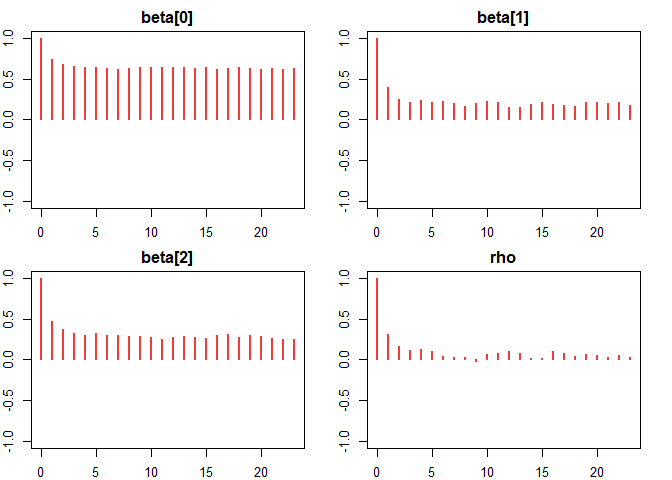
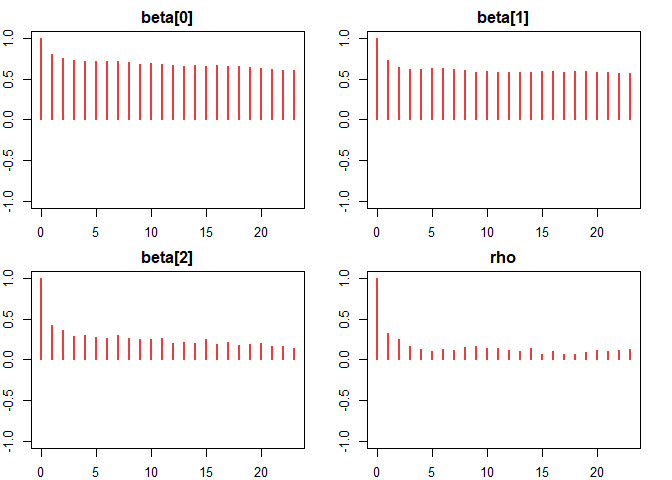
Update sample datasets and regenerate README

Changed region(s): [[0.5625, 0.125, 0.9375, 0.2188], [0.3125, 0.6875, 0.375, 0.7188], [0.6875, 0.7188, 0.7188, 0.75]]

diff --git a/README.md b/README.md
@@ -70,7 +70,8 @@ model_sarDeff <- betaDeffSAR(
   DEFF = "deff",
   n_i = "n_i",
   proxmat = weight_mat,
-  data = dataBeta
+  data = dataBeta,
+  n.adapt = 500
 )
 ```
 
@@ -80,13 +81,13 @@ Extract the mean estimation for the areas:
 
 ``` r
 head(model_sarDeff$Est)
-#>        Estimate  Est.Error  l-95% CI  u-95% CI
-#> mu[1] 0.9424437 0.02473051 0.8848259 0.9776762
-#> mu[2] 0.5457462 0.11659218 0.3149116 0.7315391
-#> mu[3] 0.5513215 0.14246659 0.3208994 0.7884987
-#> mu[4] 0.9781423 0.01099468 0.9540676 0.9927489
-#> mu[5] 0.8579155 0.06805634 0.6983677 0.9506254
-#> mu[6] 0.9604244 0.02002996 0.9180352 0.9882067
+#>        Estimate  Est.Error   l-95% CI  u-95% CI
+#> mu[1] 0.8784156 0.04693805 0.75802237 0.9425771
+#> mu[2] 0.6269277 0.10464048 0.42570608 0.8392672
+#> mu[3] 0.5816371 0.07945872 0.42829699 0.7439266
+#> mu[4] 0.2173992 0.06685184 0.10416101 0.3559373
+#> mu[5] 0.2133118 0.07370978 0.07678379 0.3639901
+#> mu[6] 0.9436485 0.03235324 0.87259401 0.9869702
 ```
 
 Extract the estimated model coefficients:
@@ -94,224 +95,96 @@ Extract the estimated model coefficients:
 ``` r
 model_sarDeff$coefficient
 #>          Estimate  Est.Error  l-95% CI  u-95% CI     Rhat       ESS
-#> beta[0] 1.4140162 0.06979523 1.2847386 1.5523158 1.023636  14.79175
-#> beta[1] 1.1132699 0.04927467 1.0175493 1.2073429 1.375047 159.10767
-#> beta[2] 1.0684749 0.05384520 0.9653036 1.1788241 1.180388 180.06271
-#> rho     0.6367206 0.11348094 0.3788074 0.8321463 1.031383 245.11652
+#> beta[0] 1.9369675 0.26837727 1.3527652 2.3800517 1.531591  12.28722
+#> beta[1] 0.7997211 0.15218007 0.5135726 1.0837170 1.026906  36.98647
+#> beta[2] 0.7181547 0.09340642 0.5334150 0.8996733 1.264257 128.53339
+#> rho     0.6856899 0.14729914 0.3389427 0.9094680 1.005473 186.02937
 ```
 
 Extract the random effect for the areas:
 
 ``` r
 model_sarDeff$randeff
-#>            Estimate Est.Error    l-95% CI     u-95% CI
-#> v[1]   -0.166947816 0.4409500 -0.98356463  0.702190526
-#> v[2]   -0.306449706 0.4869276 -1.24378738  0.578033881
-#> v[3]   -1.101543369 0.6076578 -2.10017851 -0.010568305
-#> v[4]    0.537926878 0.5457722 -0.40814890  1.470423405
-#> v[5]    0.810584902 0.5590027 -0.26931244  1.773681334
-#> v[6]   -0.246385646 0.5686323 -1.18484189  0.825943547
-#> v[7]   -0.752720060 0.4883003 -1.74508289  0.092757364
-#> v[8]   -0.040757806 0.4892532 -0.94515709  0.769195891
-#> v[9]   -0.642730508 0.3110698 -1.32841724 -0.158746822
-#> v[10]  -0.242730407 0.3858611 -0.88179887  0.562713434
-#> v[11]   1.059856921 0.4661886  0.17595779  1.937024822
-#> v[12]  -0.305512561 0.4426361 -0.98740049  0.495516882
-#> v[13]  -0.827228331 0.3320415 -1.44151416 -0.142649870
-#> v[14]  -0.510819202 0.4268403 -1.37927805  0.304881463
-#> v[15]   0.246201316 0.3172971 -0.38400535  0.837124339
-#> v[16]  -0.510133943 0.3496977 -1.14836564  0.108871381
-#> v[17]   0.042745514 0.3556105 -0.70274461  0.698443574
-#> v[18]  -0.612541624 0.4471845 -1.43733415  0.260018213
-#> v[19]  -0.905357856 0.4776312 -1.86291415 -0.031660137
-#> v[20]  -1.003150398 0.3281793 -1.63299390 -0.409597190
-#> v[21]   0.185185177 0.3384648 -0.55542258  0.849551750
-#> v[22]  -1.305030401 0.3797367 -2.10782068 -0.676284178
-#> v[23]  -1.815030113 0.3199334 -2.37632208 -1.133655855
-#> v[24]  -0.821953903 0.3664360 -1.53791914 -0.081424243
-#> v[25]  -0.697829275 0.3973432 -1.72395204  0.009814243
-#> v[26]   0.096825604 0.6244582 -1.02274466  1.163484117
-#> v[27]  -0.535316694 0.5144560 -1.44779056  0.310463592
-#> v[28]  -0.424887300 0.3452068 -0.93428403  0.334577496
-#> v[29]  -0.641741864 0.2706929 -1.12861435 -0.119016622
-#> v[30]  -0.069489909 0.4383464 -1.01797971  0.554008410
-#> v[31]  -0.290160164 0.3764130 -0.90436148  0.547344043
-#> v[32]  -0.457577997 0.4726597 -1.41630946  0.509784275
-#> v[33]  -0.731026065 0.4275224 -1.59257584  0.171106887
-#> v[34]  -0.560069006 0.6473382 -1.66551498  0.546307919
-#> v[35]   0.775481779 0.2647556  0.25530112  1.247433346
-#> v[36]   0.417717367 0.4620159 -0.51873868  1.251303914
-#> v[37]   0.205978076 0.5492813 -0.78236062  1.260643381
-#> v[38]   0.305913785 0.3115968 -0.22488616  0.969351953
-#> v[39]   0.293243391 0.3773873 -0.39304156  1.122854008
-#> v[40]  -0.147532380 0.3582855 -0.79347686  0.704889351
-#> v[41]  -0.791426220 0.5611355 -1.67224225  0.567590314
-#> v[42]   0.109879941 0.7658422 -1.29596954  1.754635353
-#> v[43]   0.985869803 0.2931043  0.47987162  1.553663523
-#> v[44]   0.172803844 0.4311674 -0.63705883  0.924891919
-#> v[45]   1.075474998 0.3991254  0.37584820  1.914676749
-#> v[46]   0.161140724 0.5947062 -1.05435229  1.241960103
-#> v[47]   0.252888457 0.4179004 -0.43609953  1.084455776
-#> v[48]   0.433198245 0.6316290 -0.76486413  1.564662777
-#> v[49]  -0.252210962 0.8244979 -1.59175171  0.943720054
-#> v[50]   1.310837796 0.3511836  0.54345571  1.859923592
-#> v[51]   2.088927838 0.4156765  1.32562086  2.855633775
-#> v[52]   2.062295316 0.3575205  1.40368430  2.711739531
-#> v[53]   1.221492756 0.5870835  0.16276116  2.281671492
-#> v[54]   1.511532613 0.7853257  0.34813928  2.993471897
-#> v[55]   0.257554197 0.3940866 -0.50593154  1.109644901
-#> v[56]   0.688965956 0.5705624 -0.34514915  2.018365074
-#> v[57]  -0.065471241 0.3228456 -0.63049611  0.614786657
-#> v[58]   0.379074226 0.4505847 -0.55305822  1.030435261
-#> v[59]   0.444544907 0.7922912 -0.86027644  1.986284034
-#> v[60]  -0.929460375 0.3243874 -1.53679840 -0.338033716
-#> v[61]   1.515282885 0.4897465  0.65718843  2.406387264
-#> v[62]   1.132229005 0.3859714  0.47888505  1.866986028
-#> v[63]   0.841887427 0.3921375  0.12104804  1.569571936
-#> v[64]   0.197396316 0.5047350 -0.60196108  1.156621472
-#> v[65]   1.718203564 0.2833039  1.22994615  2.462067389
-#> v[66]  -1.338705058 0.2853182 -2.00228146 -0.847058809
-#> v[67]   0.985878054 0.3674341  0.36016616  1.864825159
-#> v[68]   0.344477234 0.6232451 -0.94618230  1.266919811
-#> v[69]  -0.125875802 0.7327385 -1.71641212  0.937321271
-#> v[70]  -0.125694967 0.5060453 -0.90866414  0.876694392
-#> v[71]   0.733722338 0.5474043 -0.02543658  1.970412736
-#> v[72]   0.619437038 0.7364728 -0.50016795  2.140828603
-#> v[73]   1.153321535 0.3782771  0.31908606  1.884725220
-#> v[74]   0.492444713 0.4754029 -0.27579263  1.316866873
-#> v[75]   1.102001641 0.3513222  0.26641663  1.771865692
-#> v[76]   0.496968649 0.4073720 -0.44015508  1.274798652
-#> v[77]  -0.674981830 0.6098660 -1.45999755  0.639326333
-#> v[78]   1.204634450 0.5504288  0.05378681  2.311479781
-#> v[79]   0.213162134 0.4455200 -0.62013796  0.950225300
-#> v[80]   0.595215037 0.3786973 -0.09199345  1.300730204
-#> v[81]   0.605487768 0.5760690 -0.41612600  1.646401863
-#> v[82]   0.246872411 0.3214118 -0.33161162  0.953245310
-#> v[83]   0.592238168 0.4373258 -0.19939674  1.396002456
-#> v[84]  -0.073818011 0.3828021 -0.81387469  0.568466512
-#> v[85]  -0.729462898 0.3275107 -1.32944786 -0.094507184
-#> v[86]  -0.180867930 0.6747127 -1.22674089  1.254238936
-#> v[87]  -0.757029989 0.3192000 -1.42780735 -0.151787669
-#> v[88]  -0.584304792 0.5650059 -1.72974327  0.366070961
-#> v[89]   0.451514972 0.3495962 -0.25572029  1.174028857
-#> v[90]   0.006861316 0.7249468 -1.01074070  1.542992165
-#> v[91]   1.281132447 0.5144734  0.08112096  2.202541408
-#> v[92]   1.389671490 0.5534122  0.39631909  2.354299165
-#> v[93]   0.222877680 0.6814428 -1.43088364  1.284815784
-#> v[94]  -0.916520567 0.3507508 -1.56251964 -0.253433136
-#> v[95]  -1.284982901 0.5425176 -2.08439537 -0.146739540
-#> v[96]  -2.631039186 0.3948603 -3.29625240 -1.949491295
-#> v[97]  -1.587427677 0.2821206 -2.09171671 -0.954124547
-#> v[98]  -0.664529724 0.3186460 -1.28133403 -0.003790379
-#> v[99]   0.335557283 0.4558818 -0.58389843  1.208127987
-#> v[100]  0.301693932 0.5576031 -0.59772014  1.469438898
+#>          Estimate Est.Error    l-95% CI    u-95% CI
+#> v[1]  -0.10783106 0.4694424 -1.22314383  0.65208038
+#> v[2]  -0.83092581 0.4648043 -1.78006765  0.09412078
+#> v[3]  -1.63847130 0.3707255 -2.41374318 -0.92099516
+#> v[4]  -2.51754355 0.5581144 -3.43731502 -1.35424193
+#> v[5]  -2.30098568 0.5887278 -3.74067841 -1.29130149
+#> v[6]  -0.52233714 0.8005825 -1.72470315  1.05442508
+#> v[7]  -1.66925454 0.4698649 -2.60536600 -0.82500371
+#> v[8]  -0.57121330 0.5285002 -1.57143948  0.44252808
+#> v[9]  -1.30153688 0.6162749 -2.51395763 -0.25232119
+#> v[10] -1.67748450 0.6307478 -2.66634995 -0.06789242
+#> v[11] -0.84583663 0.5816477 -1.80148401  0.47766972
+#> v[12] -1.46822314 0.9819288 -3.29026773  0.74777123
+#> v[13] -0.21620930 0.5482899 -1.24473605  0.84657183
+#> v[14] -0.66745317 0.5388253 -1.71359029  0.44634915
+#> v[15] -0.50636718 0.4323544 -1.40563726  0.34476162
+#> v[16] -1.49723267 0.5563584 -2.61034980 -0.40560201
+#> v[17]  0.21941788 0.6118077 -0.89912832  1.35873935
+#> v[18]  0.17845158 0.6430400 -1.03012296  1.36311163
+#> v[19]  1.19992376 0.4916931  0.23987611  2.21252226
+#> v[20] -1.81351622 0.4833503 -2.71441080 -0.78701459
+#> v[21] -1.55952188 0.4242196 -2.43860511 -0.65552459
+#> v[22] -0.37897902 0.4390642 -1.16291765  0.46089258
+#> v[23] -0.45795712 0.5899375 -1.39252273  0.82914422
+#> v[24]  1.71089629 0.6958473  0.63023164  3.31862436
+#> v[25]  1.04035629 0.6770139 -0.08068904  2.64834422
+#> v[26]  0.20606932 0.5083907 -0.78327292  1.18082533
+#> v[27] -0.79603822 0.6558185 -2.00496089  0.44080602
+#> v[28]  0.17091684 0.7165652 -1.20628130  1.58143535
+#> v[29]  0.76915414 0.5874883 -0.35246676  1.81390827
+#> v[30]  1.18239101 0.6650039  0.03475275  2.48468866
+#> v[31] -0.15064489 0.7903554 -1.67726815  1.28887993
+#> v[32]  0.08943888 0.6771465 -1.34644607  1.09438958
+#> v[33]  0.69779495 0.5941036 -0.21665746  2.08466342
+#> v[34]  0.80000180 0.5564170 -0.07084046  2.07429692
+#> v[35]  0.96171072 0.6598250 -0.25961727  2.54931781
+#> v[36]  1.61171337 0.4533350  0.73045626  2.48363024
 ```
 
 Extract the random effect variance for the areas:
 
 ``` r
 model_sarDeff$refVar
-#>             Estimate Est.Error  l-95% CI u-95% CI
-#> a.var[1]   1.1848013 0.4033140 0.7504019 2.200481
-#> a.var[2]   1.1397596 0.3792507 0.7348546 2.091475
-#> a.var[3]   1.0530883 0.3169527 0.7088533 1.827221
-#> a.var[4]   1.0318504 0.2879827 0.7057886 1.721370
-#> a.var[5]   1.0271712 0.2782618 0.7051917 1.685661
-#> a.var[6]   1.0271712 0.2782618 0.7051917 1.685661
-#> a.var[7]   1.0318504 0.2879827 0.7057886 1.721370
-#> a.var[8]   1.0530883 0.3169527 0.7088533 1.827221
-#> a.var[9]   1.1397596 0.3792507 0.7348546 2.091475
-#> a.var[10]  1.1848013 0.4033140 0.7504019 2.200481
-#> a.var[11]  1.1397596 0.3792507 0.7348546 2.091475
-#> a.var[12]  1.1032290 0.3625583 0.7191198 2.012068
-#> a.var[13]  1.0197602 0.3011070 0.6923771 1.751849
-#> a.var[14]  0.9998225 0.2731583 0.6881157 1.650376
-#> a.var[15]  0.9953958 0.2637339 0.6880905 1.616052
-#> a.var[16]  0.9953958 0.2637339 0.6880905 1.616052
-#> a.var[17]  0.9998225 0.2731583 0.6881157 1.650376
-#> a.var[18]  1.0197602 0.3011070 0.6923771 1.751849
-#> a.var[19]  1.1032290 0.3625583 0.7191198 2.012068
-#> a.var[20]  1.1397596 0.3792507 0.7348546 2.091475
-#> a.var[21]  1.0530883 0.3169527 0.7088533 1.827221
-#> a.var[22]  1.0197602 0.3011070 0.6923771 1.751849
-#> a.var[23]  0.9550513 0.2529427 0.6719610 1.550882
-#> a.var[24]  0.9392559 0.2302240 0.6687973 1.463742
-#> a.var[25]  0.9356344 0.2223186 0.6686240 1.446469
-#> a.var[26]  0.9356344 0.2223186 0.6686240 1.446469
-#> a.var[27]  0.9392559 0.2302240 0.6687973 1.463742
-#> a.var[28]  0.9550513 0.2529427 0.6719610 1.550882
-#> a.var[29]  1.0197602 0.3011070 0.6923771 1.751849
-#> a.var[30]  1.0530883 0.3169527 0.7088533 1.827221
-#> a.var[31]  1.0318504 0.2879827 0.7057886 1.721370
-#> a.var[32]  0.9998225 0.2731583 0.6881157 1.650376
-#> a.var[33]  0.9392559 0.2302240 0.6687973 1.463742
-#> a.var[34]  0.9255346 0.2110589 0.6668795 1.406169
-#> a.var[35]  0.9224795 0.2044928 0.6667323 1.383912
-#> a.var[36]  0.9224795 0.2044928 0.6667323 1.383912
-#> a.var[37]  0.9255346 0.2110589 0.6668795 1.406169
-#> a.var[38]  0.9392559 0.2302240 0.6687973 1.463742
-#> a.var[39]  0.9998225 0.2731583 0.6881157 1.650376
-#> a.var[40]  1.0318504 0.2879827 0.7057886 1.721370
-#> a.var[41]  1.0271712 0.2782618 0.7051917 1.685661
-#> a.var[42]  0.9953958 0.2637339 0.6880905 1.616052
-#> a.var[43]  0.9356344 0.2223186 0.6686240 1.446469
-#> a.var[44]  0.9224795 0.2044928 0.6667323 1.383912
-#> a.var[45]  0.9196426 0.1985422 0.6665908 1.368099
-#> a.var[46]  0.9196426 0.1985422 0.6665908 1.368099
-#> a.var[47]  0.9224795 0.2044928 0.6667323 1.383912
-#> a.var[48]  0.9356344 0.2223186 0.6686240 1.446469
-#> a.var[49]  0.9953958 0.2637339 0.6880905 1.616052
-#> a.var[50]  1.0271712 0.2782618 0.7051917 1.685661
-#> a.var[51]  1.0271712 0.2782618 0.7051917 1.685661
-#> a.var[52]  0.9953958 0.2637339 0.6880905 1.616052
-#> a.var[53]  0.9356344 0.2223186 0.6686240 1.446469
-#> a.var[54]  0.9224795 0.2044928 0.6667323 1.383912
-#> a.var[55]  0.9196426 0.1985422 0.6665908 1.368099
-#> a.var[56]  0.9196426 0.1985422 0.6665908 1.368099
-#> a.var[57]  0.9224795 0.2044928 0.6667323 1.383912
-#> a.var[58]  0.9356344 0.2223186 0.6686240 1.446469
-#> a.var[59]  0.9953958 0.2637339 0.6880905 1.616052
-#> a.var[60]  1.0271712 0.2782618 0.7051917 1.685661
-#> a.var[61]  1.0318504 0.2879827 0.7057886 1.721370
-#> a.var[62]  0.9998225 0.2731583 0.6881157 1.650376
-#> a.var[63]  0.9392559 0.2302240 0.6687973 1.463742
-#> a.var[64]  0.9255346 0.2110589 0.6668795 1.406169
-#> a.var[65]  0.9224795 0.2044928 0.6667323 1.383912
-#> a.var[66]  0.9224795 0.2044928 0.6667323 1.383912
-#> a.var[67]  0.9255346 0.2110589 0.6668795 1.406169
-#> a.var[68]  0.9392559 0.2302240 0.6687973 1.463742
-#> a.var[69]  0.9998225 0.2731583 0.6881157 1.650376
-#> a.var[70]  1.0318504 0.2879827 0.7057886 1.721370
-#> a.var[71]  1.0530883 0.3169527 0.7088533 1.827221
-#> a.var[72]  1.0197602 0.3011070 0.6923771 1.751849
-#> a.var[73]  0.9550513 0.2529427 0.6719610 1.550882
-#> a.var[74]  0.9392559 0.2302240 0.6687973 1.463742
-#> a.var[75]  0.9356344 0.2223186 0.6686240 1.446469
-#> a.var[76]  0.9356344 0.2223186 0.6686240 1.446469
-#> a.var[77]  0.9392559 0.2302240 0.6687973 1.463742
-#> a.var[78]  0.9550513 0.2529427 0.6719610 1.550882
-#> a.var[79]  1.0197602 0.3011070 0.6923771 1.751849
-#> a.var[80]  1.0530883 0.3169527 0.7088533 1.827221
-#> a.var[81]  1.1397596 0.3792507 0.7348546 2.091475
-#> a.var[82]  1.1032290 0.3625583 0.7191198 2.012068
-#> a.var[83]  1.0197602 0.3011070 0.6923771 1.751849
-#> a.var[84]  0.9998225 0.2731583 0.6881157 1.650376
-#> a.var[85]  0.9953958 0.2637339 0.6880905 1.616052
-#> a.var[86]  0.9953958 0.2637339 0.6880905 1.616052
-#> a.var[87]  0.9998225 0.2731583 0.6881157 1.650376
-#> a.var[88]  1.0197602 0.3011070 0.6923771 1.751849
-#> a.var[89]  1.1032290 0.3625583 0.7191198 2.012068
-#> a.var[90]  1.1397596 0.3792507 0.7348546 2.091475
-#> a.var[91]  1.1848013 0.4033140 0.7504019 2.200481
-#> a.var[92]  1.1397596 0.3792507 0.7348546 2.091475
-#> a.var[93]  1.0530883 0.3169527 0.7088533 1.827221
-#> a.var[94]  1.0318504 0.2879827 0.7057886 1.721370
-#> a.var[95]  1.0271712 0.2782618 0.7051917 1.685661
-#> a.var[96]  1.0271712 0.2782618 0.7051917 1.685661
-#> a.var[97]  1.0318504 0.2879827 0.7057886 1.721370
-#> a.var[98]  1.0530883 0.3169527 0.7088533 1.827221
-#> a.var[99]  1.1397596 0.3792507 0.7348546 2.091475
-#> a.var[100] 1.1848013 0.4033140 0.7504019 2.200481
+#>           Estimate Est.Error  l-95% CI u-95% CI
+#> a.var[1]  3.760232  43.28017 0.9646746 6.857557
+#> a.var[2]  3.677417  43.38839 0.9380096 6.610790
+#> a.var[3]  3.496129  43.42892 0.9079578 5.975525
+#> a.var[4]  3.496129  43.42892 0.9079578 5.975525
+#> a.var[5]  3.677417  43.38839 0.9380096 6.610790
+#> a.var[6]  3.760232  43.28017 0.9646746 6.857557
+#> a.var[7]  3.677417  43.38839 0.9380096 6.610790
+#> a.var[8]  3.620138  43.56685 0.9215755 6.462746
+#> a.var[9]  3.442653  43.61167 0.8892324 5.825479
+#> a.var[10] 3.442653  43.61167 0.8892324 5.825479
+#> a.var[11] 3.620138  43.56685 0.9215755 6.462746
+#> a.var[12] 3.677417  43.38839 0.9380096 6.610790
+#> a.var[13] 3.496129  43.42892 0.9079578 5.975525
+#> a.var[14] 3.442653  43.61167 0.8892324 5.825479
+#> a.var[15] 3.303048  43.67095 0.8639656 5.365353
+#> a.var[16] 3.303048  43.67095 0.8639656 5.365353
+#> a.var[17] 3.442653  43.61167 0.8892324 5.825479
+#> a.var[18] 3.496129  43.42892 0.9079578 5.975525
+#> a.var[19] 3.496129  43.42892 0.9079578 5.975525
+#> a.var[20] 3.442653  43.61167 0.8892324 5.825479
+#> a.var[21] 3.303048  43.67095 0.8639656 5.365353
+#> a.var[22] 3.303048  43.67095 0.8639656 5.365353
+#> a.var[23] 3.442653  43.61167 0.8892324 5.825479
+#> a.var[24] 3.496129  43.42892 0.9079578 5.975525
+#> a.var[25] 3.677417  43.38839 0.9380096 6.610790
+#> a.var[26] 3.620138  43.56685 0.9215755 6.462746
+#> a.var[27] 3.442653  43.61167 0.8892324 5.825479
+#> a.var[28] 3.442653  43.61167 0.8892324 5.825479
+#> a.var[29] 3.620138  43.56685 0.9215755 6.462746
+#> a.var[30] 3.677417  43.38839 0.9380096 6.610790
+#> a.var[31] 3.760232  43.28017 0.9646746 6.857557
+#> a.var[32] 3.677417  43.38839 0.9380096 6.610790
+#> a.var[33] 3.496129  43.42892 0.9079578 5.975525
+#> a.var[34] 3.496129  43.42892 0.9079578 5.975525
+#> a.var[35] 3.677417  43.38839 0.9380096 6.610790
+#> a.var[36] 3.760232  43.28017 0.9646746 6.857557
 ```
 
 ## References
